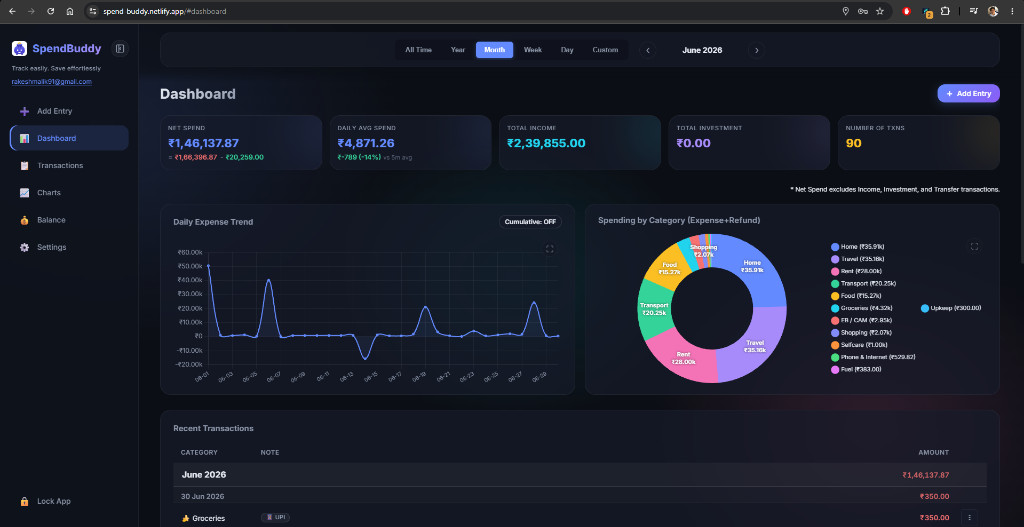
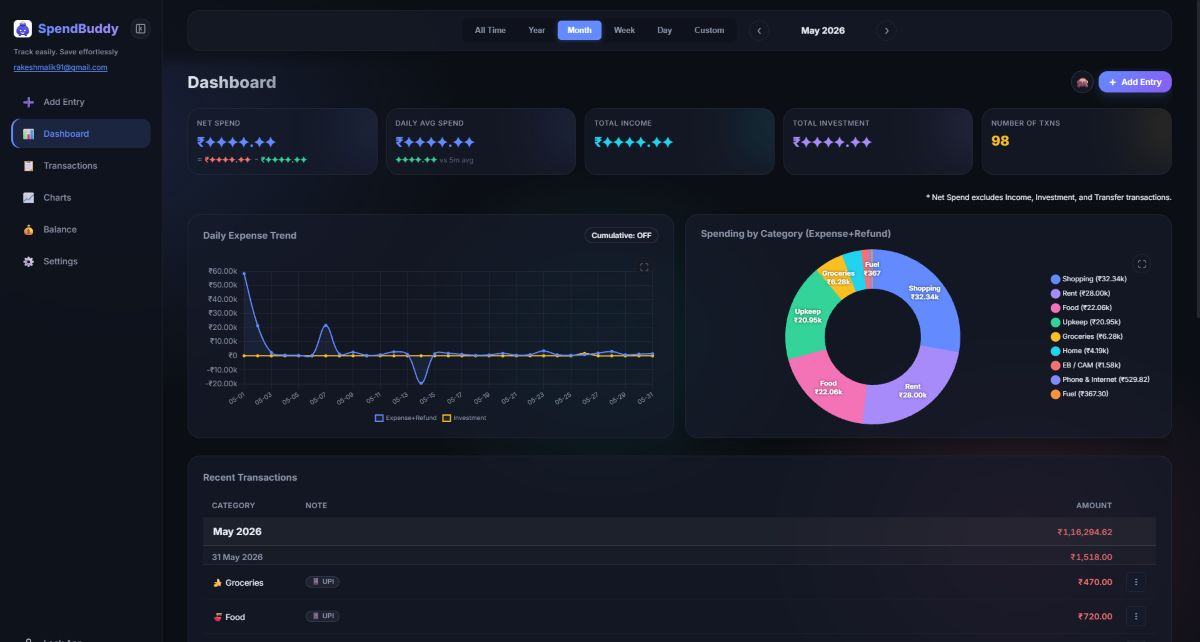
feat: hide amount

diff --git a/webapp/js/ui/dashboard.js b/webapp/js/ui/dashboard.js
@@ -11,6 +11,33 @@ import { showScheduledApprovalModal } from "./scheduled_approval.js";
 
 /* ══════════════ DASHBOARD ══════════════ */
 
+const HIDDEN_AMOUNT = '✦✦✦✦.✦✦';
+const HIDDEN_CURRENCY = '₹';
+
+function formatAmount(value) {
+    return (value >= 0 ? '₹' : '-₹') + Math.abs(value).toLocaleString('en-IN', { minimumFractionDigits: 2, maximumFractionDigits: 2 });
+}
+
+function formatAmountPositive(value) {
+    return '₹' + value.toLocaleString('en-IN', { minimumFractionDigits: 2, maximumFractionDigits: 2 });
+}
+
+function getDisplayValue(value, isPositive = true) {
+    return state.hideAmounts ? (isPositive ? HIDDEN_CURRENCY + HIDDEN_AMOUNT : '- ' + HIDDEN_CURRENCY + HIDDEN_AMOUNT) : (isPositive ? formatAmountPositive(value) : formatAmount(value));
+}
+
+function updateEyeButton() {
+    const eyeBtn = $('#dash-eye-btn');
+    if (eyeBtn) {
+        const eyeIcon = eyeBtn.querySelector('.eye-icon');
+        if (eyeIcon) {
+            eyeIcon.textContent = state.hideAmounts ? '🙈' : '👁';
+        }
+        eyeBtn.setAttribute('aria-label', state.hideAmounts ? 'Show amounts' : 'Hide amounts');
+        eyeBtn.title = state.hideAmounts ? 'Show amounts' : 'Hide amounts';
+    }
+}
+
 export function renderDashboard() {
     const currentExpenses = getGlobalFilteredExpenses();
     const baseExpenses = currentExpenses.filter(e => !e.txnType || e.txnType === 'Expense' || e.txnType === 'Refund');
@@ -22,18 +49,20 @@ export function renderDashboard() {
     const totalInvestment = currentExpenses.filter(e => e.txnType === 'Investment').reduce((s, e) => s + Math.abs(e.amount), 0);
     const totalTransfer = currentExpenses.filter(e => e.txnType === 'Transfer').reduce((s, e) => s + Math.abs(e.amount), 0);
 
-    if ($('#net-balance')) $('#net-balance').textContent = (net >= 0 ? '₹' : '-₹') + Math.abs(net).toLocaleString('en-IN', { minimumFractionDigits: 2, maximumFractionDigits: 2 });
-    if ($('#small-expense')) $('#small-expense').textContent = '₹' + totalExpense.toLocaleString('en-IN', { minimumFractionDigits: 2, maximumFractionDigits: 2 });
-    if ($('#small-refunds')) $('#small-refunds').textContent = '₹' + totalRefunds.toLocaleString('en-IN', { minimumFractionDigits: 2, maximumFractionDigits: 2 });
+    if ($('#net-balance')) $('#net-balance').textContent = getDisplayValue(net, net >= 0);
+    if ($('#small-expense')) $('#small-expense').textContent = getDisplayValue(totalExpense);
+    if ($('#small-refunds')) $('#small-refunds').textContent = getDisplayValue(totalRefunds);
 
-    if ($('#total-income-real')) $('#total-income-real').textContent = '₹' + totalIncome.toLocaleString('en-IN', { minimumFractionDigits: 2, maximumFractionDigits: 2 });
-    if ($('#total-investment')) $('#total-investment').textContent = '₹' + totalInvestment.toLocaleString('en-IN', { minimumFractionDigits: 2, maximumFractionDigits: 2 });
-    if ($('#total-transfer')) $('#total-transfer').textContent = '₹' + totalTransfer.toLocaleString('en-IN', { minimumFractionDigits: 2, maximumFractionDigits: 2 });
+    if ($('#total-income-real')) $('#total-income-real').textContent = getDisplayValue(totalIncome);
+    if ($('#total-investment')) $('#total-investment').textContent = getDisplayValue(totalInvestment);
+    if ($('#total-transfer')) $('#total-transfer').textContent = getDisplayValue(totalTransfer);
     if ($('#total-count')) $('#total-count').textContent = currentExpenses.length;
 
     if ($('#card-income-total')) $('#card-income-total').style.display = state.hideIncome ? 'none' : '';
     if ($('#card-investment')) $('#card-investment').style.display = state.hideInvestment ? 'none' : '';
     if ($('#card-transfer')) $('#card-transfer').style.display = state.hideTransfer ? 'none' : '';
+
+    updateEyeButton();
 
     const summaryContainer = document.querySelector('.summary-cards');
     if (summaryContainer) {
@@ -109,7 +138,7 @@ export function renderDashboard() {
         }
     }
     const dailyAvg = net / days;
-    if ($('#daily-avg-spend')) $('#daily-avg-spend').textContent = (dailyAvg >= 0 ? '₹' : '-₹') + Math.abs(dailyAvg).toLocaleString('en-IN', { minimumFractionDigits: 2, maximumFractionDigits: 2 });
+    if ($('#daily-avg-spend')) $('#daily-avg-spend').textContent = getDisplayValue(dailyAvg, dailyAvg >= 0);
 
     const prevExpenses = getPrevGlobalFilteredExpenses();
     const prevBase = prevExpenses.filter(e => !e.txnType || e.txnType === 'Expense' || e.txnType === 'Refund');
@@ -194,7 +223,9 @@ export function renderDashboard() {
                         const pSign5 = percent5 > 0 ? '+' : '';
                         percentStr5 = ` (${pSign5}${percent5}%)`;
                     }
-                    htmlStr = `<div style="display: flex; gap: 4px; align-items: baseline;"><span class="${diffClass5}" style="white-space: nowrap;">${sign5}₹${Math.round(diff5).toLocaleString('en-IN')}${percentStr5}</span> <span style="color: var(--text-muted); font-weight: normal; font-size: 0.75rem; white-space: normal;">vs ${periodStr5}</span></div>`;
+                    
+                    let diffDisplay = state.hideAmounts ? (diff5 >= 0 ? HIDDEN_CURRENCY + HIDDEN_AMOUNT : '- ' + HIDDEN_CURRENCY + HIDDEN_AMOUNT) : `${sign5}₹${Math.round(diff5).toLocaleString('en-IN')}${percentStr5}`;
+                    htmlStr = `<div style="display: flex; gap: 4px; align-items: baseline;"><span class="${diffClass5}" style="white-space: nowrap;">${diffDisplay}</span> <span style="color: var(--text-muted); font-weight: normal; font-size: 0.75rem; white-space: normal;">vs ${periodStr5}</span></div>`;
                 }
 
                 $('#daily-avg-trend').innerHTML = htmlStr;
@@ -577,10 +608,11 @@ export function renderQuickAdd() {
     quickAddTemplates.forEach(st => {
         const amtColor = st.amount < 0 ? 'var(--green)' : 'var(--amount-negative)';
         const displayType = st.amount < 0 ? '+' : '';
+        const amountDisplay = state.hideAmounts ? (displayType === '+' ? HIDDEN_CURRENCY + HIDDEN_AMOUNT : HIDDEN_CURRENCY + HIDDEN_AMOUNT) : `${displayType}₹${Math.abs(st.amount).toLocaleString('en-IN', { minimumFractionDigits: 0, maximumFractionDigits: 2 })}`;
         html += `
         <button class="btn-quick-add" data-id="${st.id}" title="Click to instantly log ${escHtml(st.note || st.category)}">
             <span class="qa-note">⚡ ${escHtml(st.note || st.category)}</span>
-            <span class="qa-amount" style="color: ${amtColor}">${displayType}₹${Math.abs(st.amount).toLocaleString('en-IN', { minimumFractionDigits: 0, maximumFractionDigits: 2 })}</span>
+            <span class="qa-amount" style="color: ${amtColor}">${amountDisplay}</span>
         </button>
         `;
     });
@@ -594,7 +626,7 @@ export function renderQuickAdd() {
         `;
     }
 
-    pendingSms.forEach((txn, i) => {
+pendingSms.forEach((txn, i) => {
         if (txn.date !== todayStr) return;
         const title = txn.merchant || txn.source || 'SMS';
         const customRule = findMatchingKeywordRule(txn.merchant) || (txn.source ? findMatchingKeywordRule(txn.source) : null);
@@ -605,10 +637,11 @@ export function renderQuickAdd() {
         const displayType = isCredit ? '+' : '';
         const amtColor = isCredit ? 'var(--green)' : 'var(--amount-negative)';
         const emoji = (txn.source || '').toLowerCase().includes('email') ? '📧' : '💬';
+        const amountDisplay = state.hideAmounts ? (displayType === '+' ? HIDDEN_CURRENCY + HIDDEN_AMOUNT : HIDDEN_CURRENCY + HIDDEN_AMOUNT) : `${displayType}₹${Math.abs(txn.amount).toLocaleString('en-IN', { minimumFractionDigits: 0, maximumFractionDigits: 2 })}`;
         html += `
         <button class="btn-quick-add sms-quick-add" data-index="${i}" title="Approve: ${escHtml(title)}" style="border: 1px solid var(--accent);">
             <span class="qa-note">${emoji} ${escHtml(title)}</span>
-            <span class="qa-amount" style="color: ${amtColor}">${displayType}₹${Math.abs(txn.amount).toLocaleString('en-IN', { minimumFractionDigits: 0, maximumFractionDigits: 2 })}</span>
+            <span class="qa-amount" style="color: ${amtColor}">${amountDisplay}</span>
         </button>
         `;
     });
@@ -753,4 +786,20 @@ export function renderQuickAdd() {
             renderAll();
         });
     });
+}
+
+let dashboardInitialized = false;
+
+export function initDashboard() {
+    if (dashboardInitialized) return;
+    dashboardInitialized = true;
+
+    const eyeBtn = $('#dash-eye-btn');
+    if (eyeBtn) {
+        eyeBtn.addEventListener('click', () => {
+            state.hideAmounts = !state.hideAmounts;
+            localStorage.setItem('expman_hide_amounts', state.hideAmounts ? 'true' : 'false');
+            renderDashboard();
+        });
+    }
 }

diff --git a/webapp/index.html b/webapp/index.html
@@ -176,7 +176,7 @@
     <link rel="stylesheet" href="css/layout/sidebar.css?v=11">
     <link rel="stylesheet" href="css/layout/header.css?v=4">
     <link rel="stylesheet" href="css/layout/main.css?v=13">
-    <link rel="stylesheet" href="css/components/buttons.css?v=10">
+    <link rel="stylesheet" href="css/components/buttons.css?v=11">
     <link rel="stylesheet" href="css/components/cards.css?v=11">
     <link rel="stylesheet" href="css/components/tables.css?v=61">
     <link rel="stylesheet" href="css/components/forms.css?v=15">
@@ -389,10 +389,15 @@
                         <!-- Populated by JS -->
                     </div>
 
-                    <button class="btn btn-primary dash-add-btn" id="dash-add-btn"
-                        style="padding: 8px 16px; font-size: 0.9rem;">
-                        <span style="font-size: 1.2rem; font-weight: bold; line-height: 1;">+</span> Add Entry
-                    </button>
+                    <div class="dash-header-actions" style="display: flex; align-items: center; gap: 8px;">
+                        <button class="btn btn-icon dash-eye-btn" id="dash-eye-btn" title="Toggle amount visibility" aria-label="Toggle amount visibility" style="padding: 8px; display: flex; align-items: center; justify-content: center;">
+                            <span class="eye-icon" style="font-size: 1.1rem;">👁</span>
+                        </button>
+                        <button class="btn btn-primary dash-add-btn" id="dash-add-btn"
+                            style="padding: 8px 16px; font-size: 0.9rem;">
+                            <span style="font-size: 1.2rem; font-weight: bold; line-height: 1;">+</span> Add Entry
+                        </button>
+                    </div>
                 </div>
 
                 <!-- Summary Cards -->

diff --git a/webapp/css/components/buttons.css b/webapp/css/components/buttons.css
@@ -177,3 +177,40 @@
     transform: translate(-8px, -50%) scale(1);
 }
 
+/* ══════════════ DASHBOARD EYE BUTTON ══════════════ */
+.btn-icon {
+    display: inline-flex;
+    align-items: center;
+    justify-content: center;
+    width: 36px;
+    height: 36px;
+    padding: 0;
+    border-radius: 50%;
+    background: var(--bg-card);
+    border: 1px solid var(--border);
+    color: var(--text-main);
+    transition: all var(--transition);
+}
+
+.btn-icon:hover {
+    background: var(--bg-card-hover);
+    border-color: var(--accent);
+    transform: translateY(-1px);
+    box-shadow: 0 4px 12px rgba(0,0,0,0.2);
+}
+
+.btn-icon:focus-visible {
+    outline: 2px solid var(--accent);
+    outline-offset: 2px;
+}
+
+.dash-header-actions {
+    display: flex;
+    align-items: center;
+    gap: 8px;
+}
+
+.dash-add-btn {
+    white-space: nowrap;
+}
+

diff --git a/webapp/js/ui/navigation.js b/webapp/js/ui/navigation.js
@@ -1,4 +1,4 @@
-import { renderDashboard } from "./dashboard.js";
+import { renderDashboard, initDashboard } from "./dashboard.js";
 import { renderSettings } from "./settings.js";
 import { renderKeywordMappings } from "./keyword_mappings.js";
 import { renderChartsPage } from "./charts.js";
@@ -30,6 +30,8 @@ export function setupNavigation() {
     if (dashAddBtn) {
         dashAddBtn.addEventListener('click', () => switchView('add'));
     }
+
+    initDashboard();
 
     if (!window.Android) {
         const syncCard = $('#android-sync-card');

diff --git a/webapp/js/core/state.js b/webapp/js/core/state.js
@@ -42,6 +42,7 @@ export const state = {
     hideTransfer: localStorage.getItem('expman_hide_transfer') === 'true',
     mergeRefunds: localStorage.getItem('expman_merge_refunds') !== 'false',
     hideSourceTxnId: localStorage.getItem('expman_hide_source_txnid') === 'true',
+    hideAmounts: localStorage.getItem('expman_hide_amounts') === 'true',
     keywordMappings: (() => {
         try {
             const val = localStorage.getItem('expman_keyword_mappings');

diff --git a/docs/TODO.md b/docs/TODO.md
@@ -4,10 +4,8 @@ Pick feature, enhancements, fixes from here.
 commit after each features or set of fixes/enhancements
 ---------------------
 
-### CRITICAL BUG
-- [ ] 
-
-### Fixes / Enhancements
+- [ ] BUG: to verify default txn type for -ve txn from sms/email (dashboard & add page suggestions) should be Refund, not Income. It should be Income only if it is inferred by any other mapping (auto/manual) logic
+- [x] add an eye button beside "Add entry" button in dashboard to show/hide amount values on the cards on top of the dashboard. hide them with "✦✦✦✦.✦✦". save the state in user info to remember across sessions
 - [x] only for desktop, clicking on Schedule badge in txn page should open the schedule list and highlight that specific schedule
 - [x] for mobile, when in add txn page, + button background is transparent, make it opaque
 - [x] map keywords like sweet, cake, bakery etc to food
